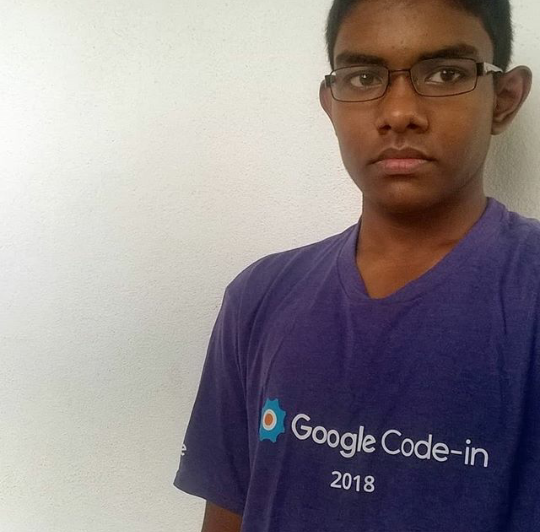
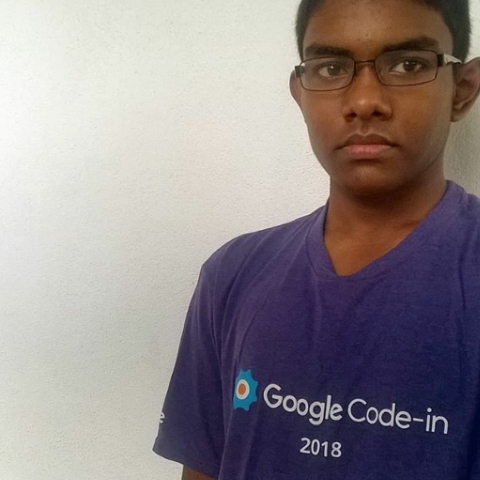
updated:

diff --git a/_site/leaderboard.html b/_site/leaderboard.html
@@ -34,7 +34,7 @@
 
   <div class="wrapper">
 
-  <div class="sidebar" data-color="azure" data-background-color="black" data-image="../assets/img/sidebar-1.jpg">
+  <div class="sidebar" data-color="azure" data-background-color="black" data-image="./assets/img/sidebar-1.jpg">
     <div class="logo">
       <a href="" class="simple-text logo-normal">
         <img src="./BITS-logo.GIF" style="width:150px; height: 150px; position: static;  filter: invert(1); -webkit-filter: invert(100%);
@@ -75,7 +75,7 @@
           </a>
         </li>
 
-        <li class="nav-item  active ">
+        <li class="nav-item ">
           <a class="nav-link" href="./leaderboard.html">
             <i class="material-icons">content_paste</i>
             <p>Leaderboards</p>
@@ -177,12 +177,6 @@
                         <td>Pahan Samuditha</td>
                         <td>11-05</td>
                         <td>90</td>
-                      </tr>
-                      
-                      <tr>
-                        <td>Melani Sathyani</td>
-                        <td>11-11</td>
-                        <td>99</td>
                       </tr>
                       
                       <tr>

diff --git a/_site/about.html b/_site/about.html
@@ -34,7 +34,7 @@
 
   <div class="wrapper">
 
-  <div class="sidebar" data-color="azure" data-background-color="black" data-image="../assets/img/sidebar-1.jpg">
+  <div class="sidebar" data-color="azure" data-background-color="black" data-image="./assets/img/sidebar-1.jpg">
     <div class="logo">
       <a href="" class="simple-text logo-normal">
         <img src="./BITS-logo.GIF" style="width:150px; height: 150px; position: static;  filter: invert(1); -webkit-filter: invert(100%);
@@ -89,7 +89,7 @@
           </a>
         </li>
         
-        <li class="nav-item  active ">
+        <li class="nav-item ">
           <a class="nav-link" href="./about.html">
             <i class="material-icons">info</i>
             <p>About</p>
@@ -383,7 +383,7 @@
             <div class="card-body">
               <table>
                 <tr>
-                  <img class="mx-auto rounded-square" src="./assets/img/mentors/mentor.jpg" alt="image"
+                  <img class="mx-auto rounded-square" src="./assets/img/mentors/pahan.jpg" alt="image"
                     width="100%" style="border-radius: 5px;">
 
                 </tr>

diff --git a/_site/tasks.html b/_site/tasks.html
@@ -34,7 +34,7 @@
 
   <div class="wrapper">
 
-  <div class="sidebar" data-color="azure" data-background-color="black" data-image="../assets/img/sidebar-1.jpg">
+  <div class="sidebar" data-color="azure" data-background-color="black" data-image="./assets/img/sidebar-1.jpg">
     <div class="logo">
       <a href="" class="simple-text logo-normal">
         <img src="./BITS-logo.GIF" style="width:150px; height: 150px; position: static;  filter: invert(1); -webkit-filter: invert(100%);
@@ -47,7 +47,7 @@
     <div class="sidebar-wrapper">
       <ul class="nav">
 
-        <li class="nav-item  active ">
+        <li class="nav-item ">
           <a class="nav-link" href="./tasks.html">
             <i class="material-icons">view_module</i>
             <p>Tasks</p>

diff --git a/_site/test.html b/_site/test.html
@@ -34,7 +34,7 @@
 
   <div class="wrapper">
 
-  <div class="sidebar" data-color="azure" data-background-color="black" data-image="../assets/img/sidebar-1.jpg">
+  <div class="sidebar" data-color="azure" data-background-color="black" data-image="./assets/img/sidebar-1.jpg">
     <div class="logo">
       <a href="" class="simple-text logo-normal">
         <img src="./BITS-logo.GIF" style="width:150px; height: 150px; position: static;  filter: invert(1); -webkit-filter: invert(100%);
@@ -61,7 +61,7 @@
           </a>
         </li-->
 
-        <li class="nav-item  active ">
+        <li class="nav-item ">
           <a class="nav-link" href="./test.html">
             <i class="material-icons">library_books</i>
             <p>Online Test</p>

diff --git a/_site/timeline.html b/_site/timeline.html
@@ -34,7 +34,7 @@
 
   <div class="wrapper">
 
-  <div class="sidebar" data-color="azure" data-background-color="black" data-image="../assets/img/sidebar-1.jpg">
+  <div class="sidebar" data-color="azure" data-background-color="black" data-image="./assets/img/sidebar-1.jpg">
     <div class="logo">
       <a href="" class="simple-text logo-normal">
         <img src="./BITS-logo.GIF" style="width:150px; height: 150px; position: static;  filter: invert(1); -webkit-filter: invert(100%);
@@ -68,7 +68,7 @@
           </a>
         </li>
 
-        <li class="nav-item  active ">
+        <li class="nav-item ">
           <a class="nav-link" href="./timeline.html">
             <i class="material-icons">timeline</i>
             <p>Timeline</p>

diff --git a/_site/contact.html b/_site/contact.html
@@ -34,7 +34,7 @@
 
   <div class="wrapper">
 
-  <div class="sidebar" data-color="azure" data-background-color="black" data-image="../assets/img/sidebar-1.jpg">
+  <div class="sidebar" data-color="azure" data-background-color="black" data-image="./assets/img/sidebar-1.jpg">
     <div class="logo">
       <a href="" class="simple-text logo-normal">
         <img src="./BITS-logo.GIF" style="width:150px; height: 150px; position: static;  filter: invert(1); -webkit-filter: invert(100%);
@@ -82,7 +82,7 @@
           </a>
         </li>
 
-        <li class="nav-item  active ">
+        <li class="nav-item ">
           <a class="nav-link" href="./contact.html">
             <i class="material-icons">chat</i>
             <p>Contact Us</p>

diff --git a/_site/other/register.html b/_site/other/register.html
@@ -35,7 +35,7 @@
 
   <div class="wrapper">
 
-  <div class="sidebar" data-color="azure" data-background-color="black" data-image="../assets/img/sidebar-1.jpg">
+  <div class="sidebar" data-color="azure" data-background-color="black" data-image="./assets/img/sidebar-1.jpg">
     <div class="logo">
       <a href="" class="simple-text logo-normal">
         <img src="./BITS-logo.GIF" style="width:150px; height: 150px; position: static;  filter: invert(1); -webkit-filter: invert(100%);
